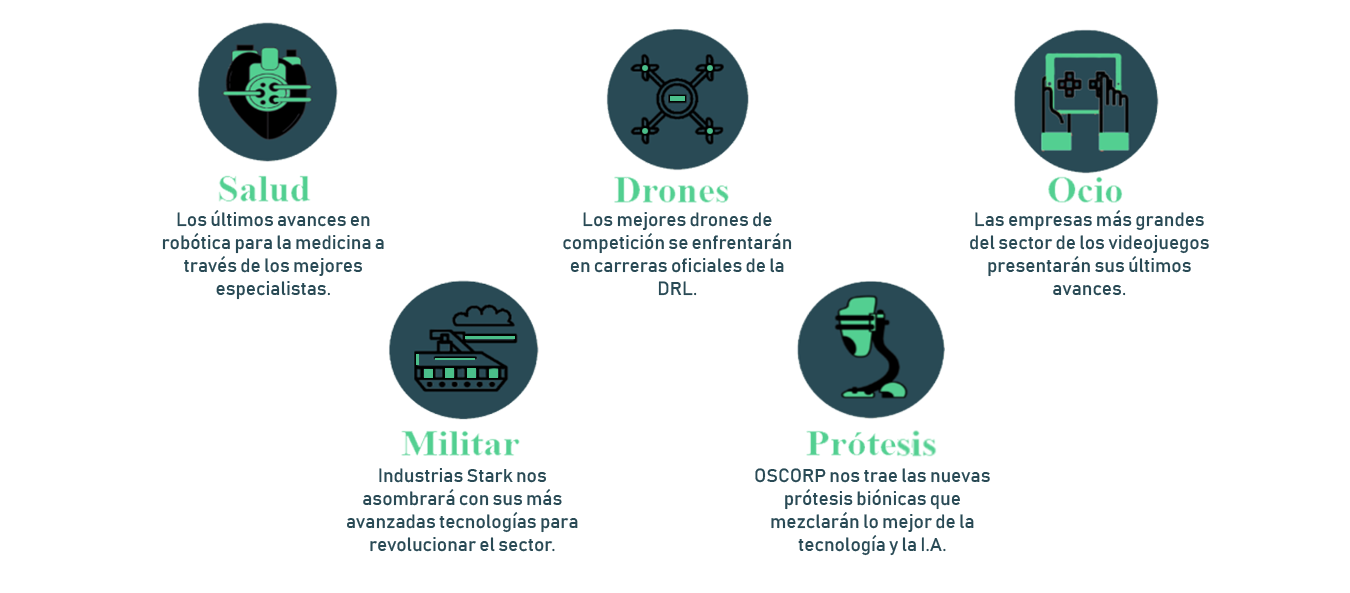
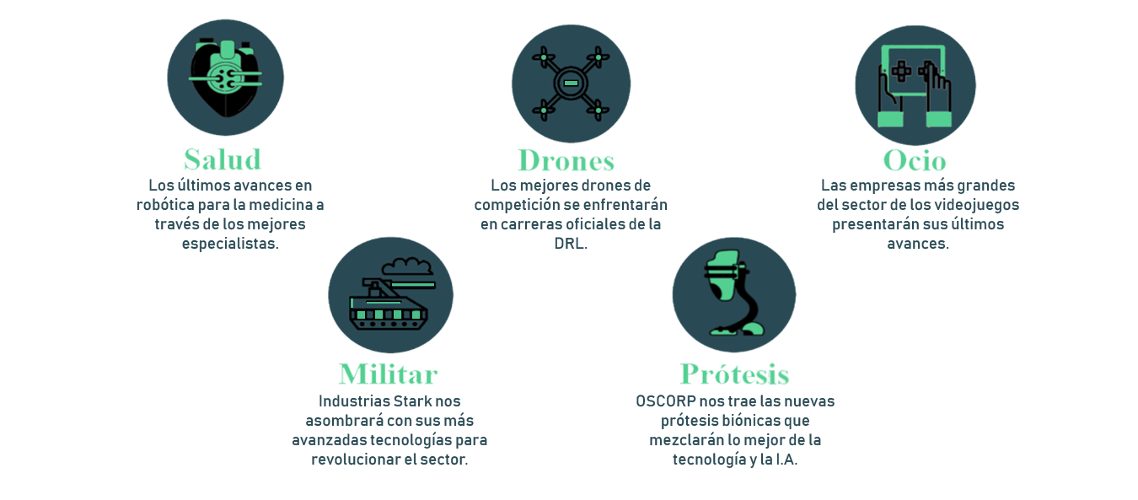
arreglos del índice

Changed region(s): [[0.6459, 0.9, 0.6766, 0.93]]

diff --git a/index.html b/index.html
@@ -62,7 +62,7 @@
                 
                 <p>
                     El objetivo de este gran evento mundial es dar a conocer los grandes avances que ha habido en este campo y el impacto que tendrá en el mundo en un futuro muy próximo ya que la robótica está comenzando a dejar de ser una temática de futuro para convertirse en una temática del presente.<br><br>
-                    Le invitamos a asistir a este evento único donde miles de personas asisten cada año.
+                    Le invitamos a asistir a este evento único donde miles de personas se reunen cada año.
                 </p>
                 
 
@@ -70,11 +70,11 @@
 
         </div>
        
-        <div id = "sectores">
-		
+       <div id = "sectores">
+		    <h3 class = "texto-titulo">Sectores</h3>
 			<img src="Imagenes/circulos.png" />
 		
-        </div> -->
+        </div>
        
         <footer id="footer">
             <h3 style="margin-left: 550px; margin-top: 30px;">

diff --git a/Estilo/index-style.css b/Estilo/index-style.css
@@ -34,14 +34,17 @@
 }
 
 #sectores{
-    height: 600px; 
+    height: 530px; 
     position: static;
-    background-image: linear-gradient(#FFFFFF,#b0bbbf);
-}
+    text-align: center;
+    font-size: 24px;
+    background-image: linear-gradient(#FFFFFF,#F1F4F7);
+    margin: 0;
+} 
 
 #introduccion{
     background-image: linear-gradient(#F1F4F7, #FFFFFF);
-    height: 600px;
+    height: 650px;
     
 }
 

diff --git a/Estilo/main-style.css b/Estilo/main-style.css
@@ -88,19 +88,12 @@ ul.menu li a:hover:not(.active) {
     background-image: url('../Imagenes/robothd.jpg');   
     background-repeat: no-repeat;
     background-size: cover;
-    width: 100%;
+    width: 99%;
     height: 400px;
 }
 
 .active{
     background: #990000;
-}
-
-
-#sectores{
-    height: 1000px; 
-    position: static;
-    background-image: linear-gradient(#b0bbbf,#FFFFFF);
 }
 
 #footer{
